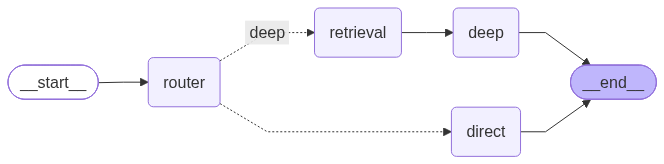
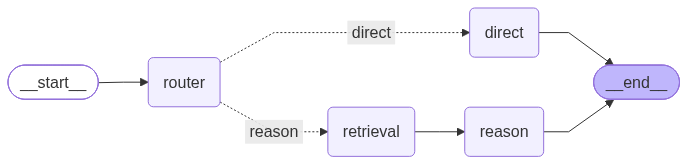
Update routing semantics and flow diagram visual

diff --git a/agents/graph.py b/agents/graph.py
@@ -18,12 +18,12 @@ logger = logging.getLogger(__name__)
 class AgentState(TypedDict):
     prompt: str
     response: str
-    route: NotRequired[Literal["direct", "deep"]]
+    route: NotRequired[Literal["direct", "reason"]]
     context: NotRequired[str]
 
 
 class RouteDecision(BaseModel):
-    route: Literal["direct", "deep"]
+    route: Literal["direct", "reason"]
 
 
 @dataclass(frozen=True)
@@ -108,7 +108,7 @@ def make_retrieval_node(runtime: AgentRuntime):
             return {
                 "prompt": "",
                 "response": "Please provide a prompt.",
-                "route": state.get("route", "deep"),
+                "route": state.get("route", "reason"),
                 "context": "",
             }
 
@@ -123,21 +123,21 @@ def make_retrieval_node(runtime: AgentRuntime):
         return {
             "prompt": prompt,
             "response": state.get("response", ""),
-            "route": state.get("route", "deep"),
+            "route": state.get("route", "reason"),
             "context": context,
         }
 
     return retrieval_node
 
 
-def make_deep_node(runtime: AgentRuntime):
-    def deep_node(state: AgentState) -> AgentState:
+def make_reason_node(runtime: AgentRuntime):
+    def reason_node(state: AgentState) -> AgentState:
         prompt = state["prompt"].strip()
         if not prompt:
             return {
                 "prompt": "",
                 "response": "Please provide a prompt.",
-                "route": state.get("route", "deep"),
+                "route": state.get("route", "reason"),
                 "context": state.get("context", ""),
             }
 
@@ -173,11 +173,11 @@ def make_deep_node(runtime: AgentRuntime):
         try:
             model_response = chain.invoke({"question": prompt, "context": context})
         except Exception:
-            logger.exception("Deep model invocation failed.")
+            logger.exception("Reasoning model invocation failed.")
             return {
                 "prompt": prompt,
                 "response": "Model invocation failed. Please try again.",
-                "route": state.get("route", "deep"),
+                "route": state.get("route", "reason"),
                 "context": context,
             }
 
@@ -186,11 +186,11 @@ def make_deep_node(runtime: AgentRuntime):
         return {
             "prompt": prompt,
             "response": response_text,
-            "route": state.get("route", "deep"),
+            "route": state.get("route", "reason"),
             "context": context,
         }
 
-    return deep_node
+    return reason_node
 
 
 def make_router_node(runtime: AgentRuntime):
@@ -208,8 +208,8 @@ def make_router_node(runtime: AgentRuntime):
 
         routing_prompt = (
             "You are a query complexity router. Classify the user prompt as either "
-            "'direct' or 'deep'. Return 'direct' for direct Q&A requests that can "
-            "be answered in one straightforward response. Return 'deep' if the "
+            "'direct' or 'reason'. Return 'direct' for direct Q&A requests that can "
+            "be answered in one straightforward response. Return 'reason' if the "
             "request requires multi-step reasoning, planning, tool use, or iterative "
             "processing.\n\n"
             f"User prompt:\n{prompt}"
@@ -219,8 +219,8 @@ def make_router_node(runtime: AgentRuntime):
             decision = router_llm.invoke(routing_prompt)
             route = decision.route
         except Exception:
-            logger.exception("Routing model invocation failed. Falling back to deep.")
-            route = "deep"
+            logger.exception("Routing model invocation failed. Falling back to reason.")
+            route = "reason"
 
         return {
             "prompt": prompt,
@@ -264,8 +264,8 @@ def make_direct_node(runtime: AgentRuntime):
     return direct_node
 
 
-def _select_route(state: AgentState) -> Literal["direct", "deep"]:
-    return state.get("route", "deep")
+def _select_route(state: AgentState) -> Literal["direct", "reason"]:
+    return state.get("route", "reason")
 
 
 def build_graph(runtime: AgentRuntime):
@@ -273,7 +273,7 @@ def build_graph(runtime: AgentRuntime):
     graph.add_node("router", make_router_node(runtime))
     graph.add_node("direct", make_direct_node(runtime))
     graph.add_node("retrieval", make_retrieval_node(runtime))
-    graph.add_node("deep", make_deep_node(runtime))
+    graph.add_node("reason", make_reason_node(runtime))
 
     graph.add_edge(START, "router")
     graph.add_conditional_edges(
@@ -281,13 +281,13 @@ def build_graph(runtime: AgentRuntime):
         _select_route,
         {
             "direct": "direct",
-            "deep": "retrieval",
+            "reason": "retrieval",
         },
     )
 
     graph.add_edge("direct", END)
-    graph.add_edge("retrieval", "deep")
-    graph.add_edge("deep", END)
+    graph.add_edge("retrieval", "reason")
+    graph.add_edge("reason", END)
 
     return graph.compile()
 

diff --git a/main.py b/main.py
@@ -30,6 +30,16 @@ async def generate_graph_diagram() -> None:
 
     try:
         mermaid_syntax = agent_graph.get_graph().draw_mermaid()
+        mermaid_syntax = mermaid_syntax.replace(
+            "router -.-> direct;",
+            "router -. &nbsp;direct&nbsp; .-> direct;",
+            1,
+        )
+        mermaid_syntax = mermaid_syntax.replace(
+            "router -.-> retrieval;",
+            "router -. &nbsp;reason&nbsp; .-> retrieval;",
+            1,
+        )
         lr_mermaid_syntax = mermaid_syntax.replace("graph TD;", "graph LR;", 1)
         graph_png = draw_mermaid_png(lr_mermaid_syntax)
         output_path.write_bytes(graph_png)
